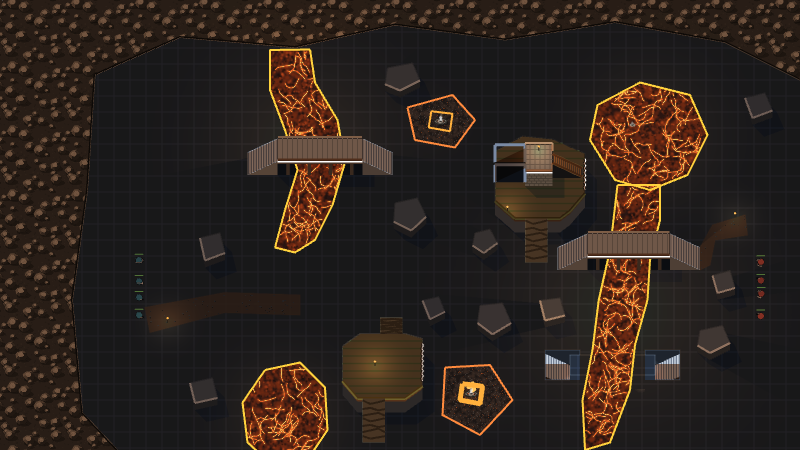
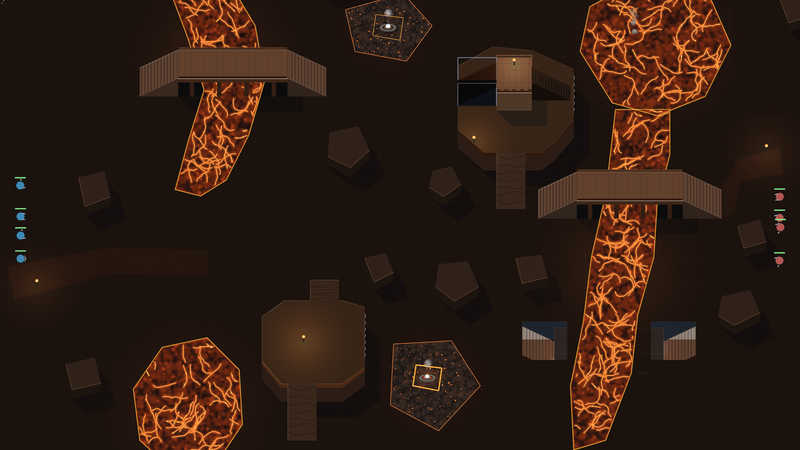
#3225: Ember Pits on a volcanic biome: a basalt-and-ash crust floor, packed basalt columns beyond its outline (lead-dev review on #3238)
A new biome, `volcanic`: near-black ground a breath warm, ash-grey stone,
charred wood, so lava is by far the hottest thing on it. A new outside
kind, `basalt`: six-sided column tops lit from the NW with a dull ember in
some gaps, edged with a black crevice and an ash rim; it blocks sight as
rock and forest do. Ember Pits takes both. New lit overview, and an edge
view in docs/art/3071-ember-pits-edge.png.

Breaking: the wire's outside kind gains `basalt`, so PROTOCOL_VERSION
changes: an older client cannot join a newer host.

diff --git a/apps/web/src/render/outside-land.ts b/apps/web/src/render/outside-land.ts
@@ -48,6 +48,16 @@ export const OUTSIDE_LOOK = {
     spot: 0x5f8c55,
   },
   "deep-water": { base: 0x18304a, grain: [0x152a40, 0x1c3754], ripple: 0x2f5878, shore: 0x8fb8d6 },
+  // Its warmth is a dull ember, far below danger orange: the crust is cold enough to stand beside.
+  basalt: {
+    base: 0x161312,
+    grain: [0x110f0e, 0x1e1a18],
+    top: 0x3a3431,
+    lit: 0x4a4340,
+    crack: 0x0c0a09,
+    ember: 0x6e3018,
+    ash: 0x8c827a,
+  },
 } as const;
 
 /** Paints one tile of `kind` at the origin, `OUTSIDE_TILE` square; it repeats without a seam. */
@@ -177,6 +187,43 @@ const TILE_ART: Record<OutsideKind, (painter: OutsidePainter) => void> = {
       });
     }
   },
+  // Packed basalt columns seen from above: six-sided tops lit from the NW, each
+  // with its shadow to the SE, a dull ember in the gaps between some.
+  basalt: (painter) => {
+    const look = OUTSIDE_LOOK.basalt;
+    for (const [k, at] of scatter(5, 53).entries()) {
+      const radius = 17 + hash(k * 29) * 7;
+      const turn = hash(k * 31) * (Math.PI / 3);
+      const glows = hash(k * 37) < 0.35;
+      wrapped(at, radius * 1.5, (here) => {
+        const corner = (step: number, scale: number, dx: number, dy: number): Vec2 => ({
+          x: here.x + dx + Math.cos(turn + (step * Math.PI) / 3) * radius * scale,
+          y: here.y + dy + Math.sin(turn + (step * Math.PI) / 3) * radius * scale,
+        });
+        const hexagon = (
+          colour: number,
+          alpha: number,
+          scale: number,
+          dx: number,
+          dy: number,
+        ): void => {
+          painter.fillStyle(colour, alpha);
+          for (let step = 0; step < 6; step += 1) {
+            const a = corner(step, scale, dx, dy);
+            const b = corner(step + 1, scale, dx, dy);
+            painter.fillTriangle(here.x + dx, here.y + dy, a.x, a.y, b.x, b.y);
+          }
+        };
+        if (glows) {
+          painter.fillStyle(look.ember, 0.35);
+          painter.fillCircle(here.x + radius * 0.3, here.y + radius * 0.35, radius * 1.2);
+        }
+        hexagon(look.crack, 0.85, 1.05, radius * 0.25, radius * 0.3);
+        hexagon(look.top, 1, 1, 0, 0);
+        hexagon(look.lit, 1, 0.55, -radius * 0.18, -radius * 0.18);
+      });
+    }
+  },
 };
 
 /** One stroke of an edge: `offset` world units to the outside of the outline, negative to the ground. */
@@ -211,6 +258,12 @@ export const OUTSIDE_EDGE: Record<OutsideKind, readonly EdgeStroke[]> = {
   "deep-water": [
     { offset: 5, width: 10, colour: OUTSIDE_LOOK["deep-water"].ripple, alpha: 0.8 },
     { offset: -1.5, width: 3, colour: OUTSIDE_LOOK["deep-water"].shore, alpha: 1 },
+  ],
+  // A black crevice, a dull ember in it, a rim of pale ash.
+  basalt: [
+    { offset: 3, width: 6, colour: OUTSIDE_LOOK.basalt.crack, alpha: 1 },
+    { offset: 3, width: 1.5, colour: OUTSIDE_LOOK.basalt.ember, alpha: 0.7 },
+    { offset: -1.25, width: 2.5, colour: OUTSIDE_LOOK.basalt.ash, alpha: 0.9 },
   ],
 };
 

diff --git a/packages/game-maps/src/map-set.test.ts b/packages/game-maps/src/map-set.test.ts
@@ -29,6 +29,7 @@ import structuresData from "../test-maps/structures/map.json" with { type: "json
 import heightsData from "../training/training-heights/map.json" with { type: "json" };
 import {
   MAX_OUTLINE_POINTS,
+  OUTSIDE_KINDS,
   mapDataSchema,
   type Gate,
   type GateOpener,
@@ -984,5 +985,17 @@ describe("a ground outline's nav nodes (#3066)", () => {
     };
     const nodes = layeredFinder(outlined, RADIUS).nodeCount;
     expect(nodes).toBeLessThanOrEqual(600);
+  });
+});
+
+describe("matchLayers: the land outside an outline", () => {
+  const outlined = mapDataSchema.parse(outlineTest);
+
+  it.each(OUTSIDE_KINDS)("%s is seen across only if it is a drop or water", (outside) => {
+    if (outlined.bounds.kind !== "outline") {
+      throw new Error("outline-test has no outline");
+    }
+    const layers = matchLayers({ ...outlined, bounds: { ...outlined.bounds, outside } });
+    expect(layers.outline?.blocksSight).toBe(outside !== "cliff" && outside !== "deep-water");
   });
 });

diff --git a/apps/web/src/render/arena-palette.ts b/apps/web/src/render/arena-palette.ts
@@ -434,6 +434,20 @@ const BIOME_TONES: Record<Biome, BiomeTones> = {
     /** Dry scrub: green would be nature's. */
     plant: 0x6a6448,
   },
+  /**
+   * A cooling crust of basalt and ash (#3225): near-black, a breath warm,
+   * so the lava on it is by far the hottest thing on the ground.
+   */
+  volcanic: {
+    ground: 0x2b2421,
+    rock: 0x4a4340,
+    stone: 0x8c827a,
+    /** Charred. */
+    wood: 0x5e4632,
+    earth: 0x4a3426,
+    /** Ash-choked scrub. */
+    plant: 0x5a5444,
+  },
 };
 
 /** What each colour of the arena is made of. */
@@ -598,6 +612,7 @@ export const BIOME: Record<Biome, BiomeMaterials> = {
   heights: biomeMaterials(BIOME_TONES.heights),
   wilds: biomeMaterials(BIOME_TONES.wilds),
   desert: biomeMaterials(BIOME_TONES.desert),
+  volcanic: biomeMaterials(BIOME_TONES.volcanic),
 };
 
 /** Paving on a map of one layer (#3210): laid in the flat palette's tones, on the scene's background. */

diff --git a/packages/game-maps/src/schema.ts b/packages/game-maps/src/schema.ts
@@ -66,7 +66,7 @@ const wallSchema = z.discriminatedUnion("kind", [
 ]);
 
 /** The materials a map is drawn in (#3172, docs/art/visual-style.md §1). */
-export const BIOMES = ["hall", "heights", "wilds", "desert"] as const;
+export const BIOMES = ["hall", "heights", "wilds", "desert", "volcanic"] as const;
 export type Biome = (typeof BIOMES)[number];
 
 /**
@@ -204,7 +204,7 @@ const belowGroundSchema = z.object({
 export const MAX_OUTLINE_POINTS = 32;
 
 /** What lies beyond a ground outline (#3066), each its own art; cliffs and deep water leave sight open. */
-export const OUTSIDE_KINDS = ["cliff", "rock", "forest", "deep-water"] as const;
+export const OUTSIDE_KINDS = ["cliff", "rock", "forest", "deep-water", "basalt"] as const;
 
 /**
  * A map's ground (#3066): its whole rectangle, or a simple polygon inside

diff --git a/packages/game-maps/src/layers.ts b/packages/game-maps/src/layers.ts
@@ -57,8 +57,8 @@ export function matchLayers(map: MapData): MatchLayers {
         ? undefined
         : {
             polygon: map.bounds.outline,
-            // A cliff or deep water is seen and shot across; rock and forest are not.
-            blocksSight: map.bounds.outside === "rock" || map.bounds.outside === "forest",
+            // A cliff or deep water is seen and shot across; rock, forest and basalt are not.
+            blocksSight: ["rock", "forest", "basalt"].includes(map.bounds.outside),
           },
   };
 }

diff --git a/packages/game-protocol/src/protocol.ts b/packages/game-protocol/src/protocol.ts
@@ -479,7 +479,7 @@ export type WallDescriptor = RectWallDescriptor | PolygonWallDescriptor;
 export type WireTeamCount = 2 | 3;
 
 /** What lies beyond a ground outline (#3066), as game-maps' `OUTSIDE_KINDS`. */
-export type OutsideKind = "cliff" | "rock" | "forest" | "deep-water";
+export type OutsideKind = "cliff" | "rock" | "forest" | "deep-water" | "basalt";
 
 /** A map's ground (#3066): its whole rectangle, or an outline inside it with land outside. */
 export type MapBoundsDescriptor =

diff --git a/packages/game-protocol/src/p2p.ts b/packages/game-protocol/src/p2p.ts
@@ -2081,7 +2081,7 @@ function parseMap(value: unknown): MapDescriptor | undefined {
       };
 }
 
-const OUTSIDE_KINDS: readonly OutsideKind[] = ["cliff", "rock", "forest", "deep-water"];
+const OUTSIDE_KINDS: readonly OutsideKind[] = ["cliff", "rock", "forest", "deep-water", "basalt"];
 
 function parseBounds(value: unknown): MapBoundsDescriptor | undefined {
   const raw = fields(value);

diff --git a/docs/art/visual-style.md b/docs/art/visual-style.md
@@ -29,16 +29,19 @@ ramps and stairs draw in them, tinted from the hall's materials
 ground, never the signals, and brass and iron stay as they are. A map of one
 layer draws flat whatever its biome, until its family card rebuilds it.
 
-| Biome   | Ground    | Rock      | Plant / earth                    |
-| ------- | --------- | --------- | -------------------------------- |
-| Hall    | `#26303f` | `#4b5a70` | none (stone and steel)           |
-| Wilds   | `#2a3328` | `#5b5f58` | moss `#4f5e3c`, earth `#5a4630`  |
-| Heights | `#26303f` | `#4b5a70` | none, decks `#a0b2c7`            |
-| Desert  | `#3b3226` | `#6e6252` | earth `#6e5a40`, scrub `#6a6448` |
+| Biome    | Ground    | Rock      | Plant / earth                        |
+| -------- | --------- | --------- | ------------------------------------ |
+| Hall     | `#26303f` | `#4b5a70` | none (stone and steel)               |
+| Wilds    | `#2a3328` | `#5b5f58` | moss `#4f5e3c`, earth `#5a4630`      |
+| Heights  | `#26303f` | `#4b5a70` | none, decks `#a0b2c7`                |
+| Desert   | `#3b3226` | `#6e6252` | earth `#6e5a40`, scrub `#6a6448`     |
+| Volcanic | `#2b2421` | `#4a4340` | earth `#4a3426`, ash scrub `#5a5444` |
 
 The heights still draw in the hall's tones. The wilds (#3071, Crossroads) keep
 the hall's dressed stone and wood, and its moss: a greener moss sits too near
-the allies' green. The desert's stone decks are `#c2b296`.
+the allies' green. The desert's stone decks are `#c2b296`. The volcanic biome
+(#3225, Ember Pits) is a cooling basalt crust, near black and a breath warm, its
+stone ash grey `#8c827a`, so lava is by far the hottest thing on its ground.
 
 **Signals are reserved for the fight** and no biome tone may sit within a
 hand's width of them on the colour wheel (a quarter of its radius, the

diff --git a/docs/art/3066-3067-outside-structures.md b/docs/art/3066-3067-outside-structures.md
@@ -19,6 +19,10 @@ Shared rules: the outside is lit like the rest of the map, painted with grain
   sight. Desaturated: it stays away from the grove signal green `#2f8a3c`.
 - **deep-water**: `#18304a` with grain and thin ripples, shore `#8fb8d6` 3 px (the
   deep-water shoreline). Darker and greyer than friend blue `#59c2ff`. Sight passes.
+- **basalt** (#3225, the volcanic biome's): a cooled crust `#24201e` broken by jagged
+  black cracks `#0c0a09`, a dull ember `#6e3018` deep in some. Edge: a black crevice
+  with the ember in it, a thin ash rim `#8c827a`. Blocks sight. The ember is far
+  below danger orange: only lava glows hot.
 
 Outside bodies never use danger orange, acid green or friend blue as a fill.
 
